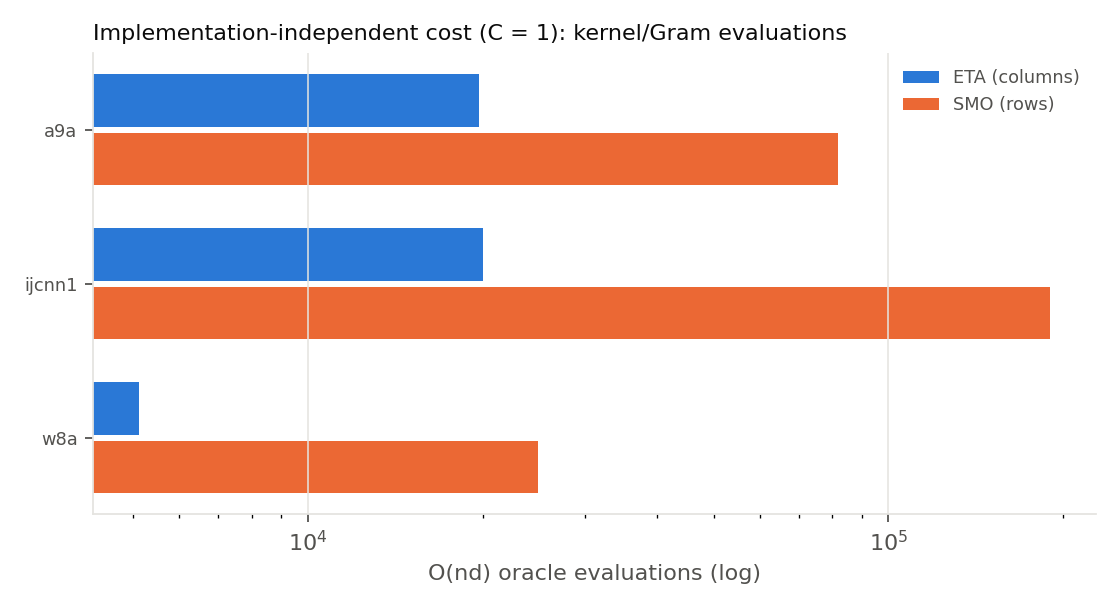
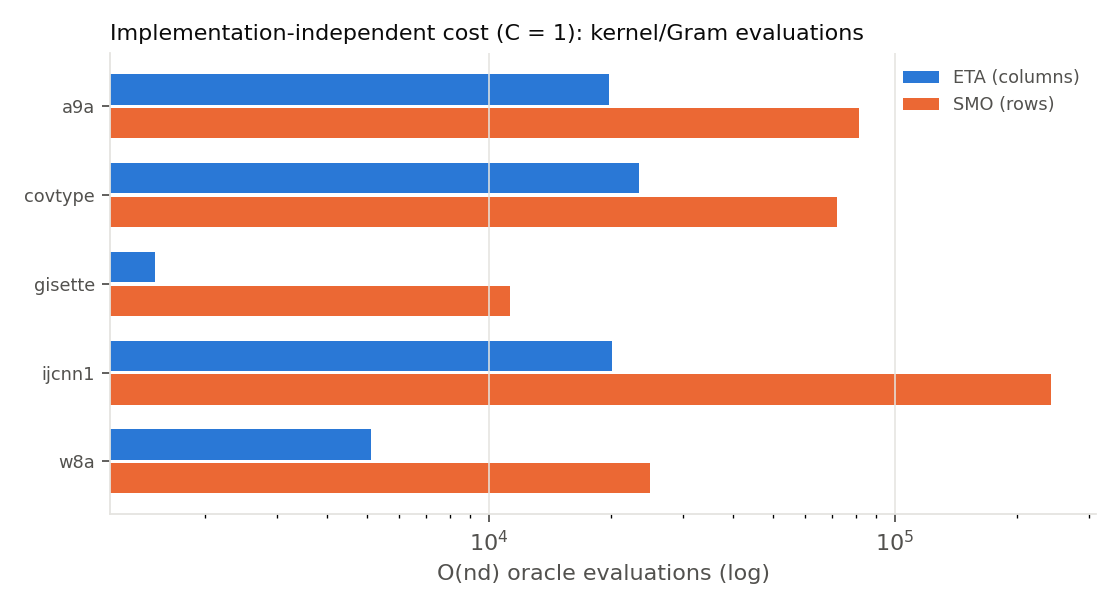
L2 battery: remaining gisette, covtype, w8a C=10, ijcnn1 seed 4 cells

diff --git a/results/full_battery_summary.md b/results/full_battery_summary.md
@@ -11,18 +11,36 @@
 | a9a | 10 | ETA | 600.06 ± 0.05 | 0.6345 ± 0.1590 | 15,588 | 5/5 |
 | a9a | 10 | SMO | 600.02 ± 0.01 | 0.7634 ± 0.0008 | 94,427 | 5/5 |
 | a9a | 10 | LIBLIN | 2.32 ± 0.54 | 0.8493 ± 0.0000 | - | 0/5 |
-| ijcnn1 | 0.1 | ETA | 600.05 ± 0.06 | 0.9181 ± 0.0002 | 23,208 | 4/4 |
-| ijcnn1 | 0.1 | SMO | 541.64 ± 63.43 | 0.9179 ± 0.0000 | 205,871 | 0/4 |
-| ijcnn1 | 0.1 | LIBLIN | 0.38 ± 0.13 | 0.9179 ± 0.0000 | - | 0/4 |
-| ijcnn1 | 1 | ETA | 600.12 ± 0.10 | 0.9046 ± 0.0186 | 20,002 | 4/4 |
-| ijcnn1 | 1 | SMO | 600.01 ± 0.01 | 0.9166 ± 0.0038 | 190,064 | 4/4 |
-| ijcnn1 | 1 | LIBLIN | 0.68 ± 0.05 | 0.9180 ± 0.0000 | - | 0/4 |
-| ijcnn1 | 10 | ETA | 600.12 ± 0.05 | 0.7073 ± 0.2264 | 9,469 | 4/4 |
-| ijcnn1 | 10 | SMO | 600.01 ± 0.00 | 0.8604 ± 0.0807 | 279,662 | 4/4 |
-| ijcnn1 | 10 | LIBLIN | 0.42 ± 0.09 | 0.9180 ± 0.0000 | - | 0/4 |
+| covtype | 0.1 | ETA | 600.28 ± 0.65 | 0.5417 ± 0.0568 | 42,764 | 3/3 |
+| covtype | 0.1 | SMO | 600.05 ± 0.02 | 0.6507 ± 0.0343 | 90,629 | 3/3 |
+| covtype | 0.1 | LIBLIN | 14.65 ± 22.78 | 0.7555 ± 0.0026 | - | 0/3 |
+| covtype | 1 | ETA | 600.13 ± 0.03 | 0.5078 ± 0.0139 | 23,391 | 5/5 |
+| covtype | 1 | SMO | 600.05 ± 0.02 | 0.5410 ± 0.0305 | 72,101 | 5/5 |
+| covtype | 1 | LIBLIN | 6.06 ± 3.56 | 0.7561 ± 0.0015 | - | 0/5 |
+| covtype | 10 | ETA | 600.06 ± 0.03 | 0.5169 ± 0.0079 | 17,998 | 5/5 |
+| covtype | 10 | SMO | 600.02 ± 0.01 | 0.5141 ± 0.0026 | 49,061 | 5/5 |
+| covtype | 10 | LIBLIN | 5.04 ± 1.79 | 0.7561 ± 0.0015 | - | 0/5 |
+| gisette | 0.1 | ETA | 43.46 ± 0.00 | 0.9810 ± 0.0000 | 1,525 | 0/1 |
+| gisette | 0.1 | SMO | 305.16 ± 0.00 | 0.9810 ± 0.0000 | 11,151 | 0/1 |
+| gisette | 0.1 | LIBLIN | 543.15 ± 0.00 | 0.9810 ± 0.0000 | - | 0/1 |
+| gisette | 1 | ETA | 43.35 ± 5.29 | 0.9810 ± 0.0000 | 1,505 | 0/5 |
+| gisette | 1 | SMO | 294.79 ± 5.52 | 0.9810 ± 0.0000 | 11,250 | 0/5 |
+| gisette | 1 | LIBLIN | 3916.40 ± 114.71 | 0.9810 ± 0.0000 | - | 0/5 |
+| ijcnn1 | 0.1 | ETA | 600.05 ± 0.04 | 0.9180 ± 0.0002 | 23,214 | 5/5 |
+| ijcnn1 | 0.1 | SMO | 478.30 ± 181.01 | 0.9179 ± 0.0000 | 205,871 | 0/5 |
+| ijcnn1 | 0.1 | LIBLIN | 0.35 ± 0.14 | 0.9179 ± 0.0000 | - | 0/5 |
+| ijcnn1 | 1 | ETA | 600.11 ± 0.07 | 0.9012 ± 0.0157 | 20,150 | 5/5 |
+| ijcnn1 | 1 | SMO | 600.01 ± 0.01 | 0.9168 ± 0.0027 | 242,655 | 5/5 |
+| ijcnn1 | 1 | LIBLIN | 0.62 ± 0.16 | 0.9180 ± 0.0000 | - | 0/5 |
+| ijcnn1 | 10 | ETA | 600.10 ± 0.05 | 0.6561 ± 0.2087 | 9,871 | 5/5 |
+| ijcnn1 | 10 | SMO | 600.01 ± 0.00 | 0.8524 ± 0.0588 | 304,665 | 5/5 |
+| ijcnn1 | 10 | LIBLIN | 0.40 ± 0.09 | 0.9180 ± 0.0000 | - | 0/5 |
 | w8a | 0.1 | ETA | 600.07 ± 0.05 | 0.9869 ± 0.0005 | 10,200 | 5/5 |
 | w8a | 0.1 | SMO | 600.10 ± 0.03 | 0.9848 ± 0.0007 | 30,234 | 5/5 |
 | w8a | 0.1 | LIBLIN | 22.68 ± 4.30 | 0.9866 ± 0.0000 | - | 0/5 |
 | w8a | 1 | ETA | 600.09 ± 0.05 | 0.9227 ± 0.1547 | 5,109 | 5/5 |
 | w8a | 1 | SMO | 600.06 ± 0.04 | 0.9788 ± 0.0030 | 24,928 | 5/5 |
 | w8a | 1 | LIBLIN | 20.63 ± 6.56 | 0.9867 ± 0.0000 | - | 0/5 |
+| w8a | 10 | ETA | 600.05 ± 0.02 | 0.7198 ± 0.2755 | 4,472 | 5/5 |
+| w8a | 10 | SMO | 600.07 ± 0.01 | 0.9713 ± 0.0025 | 29,807 | 5/5 |
+| w8a | 10 | LIBLIN | 13.21 ± 1.07 | 0.9867 ± 0.0000 | - | 0/5 |
